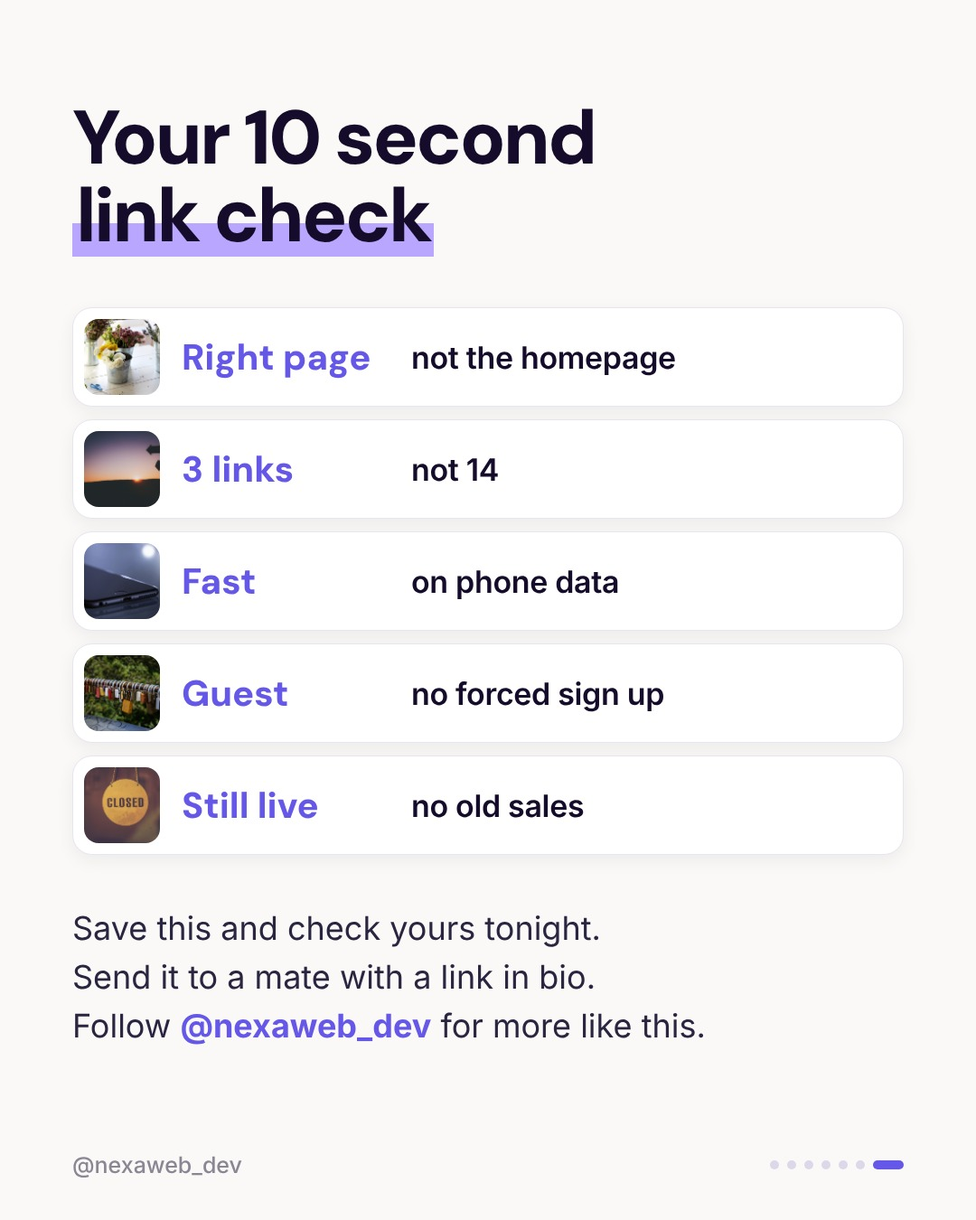
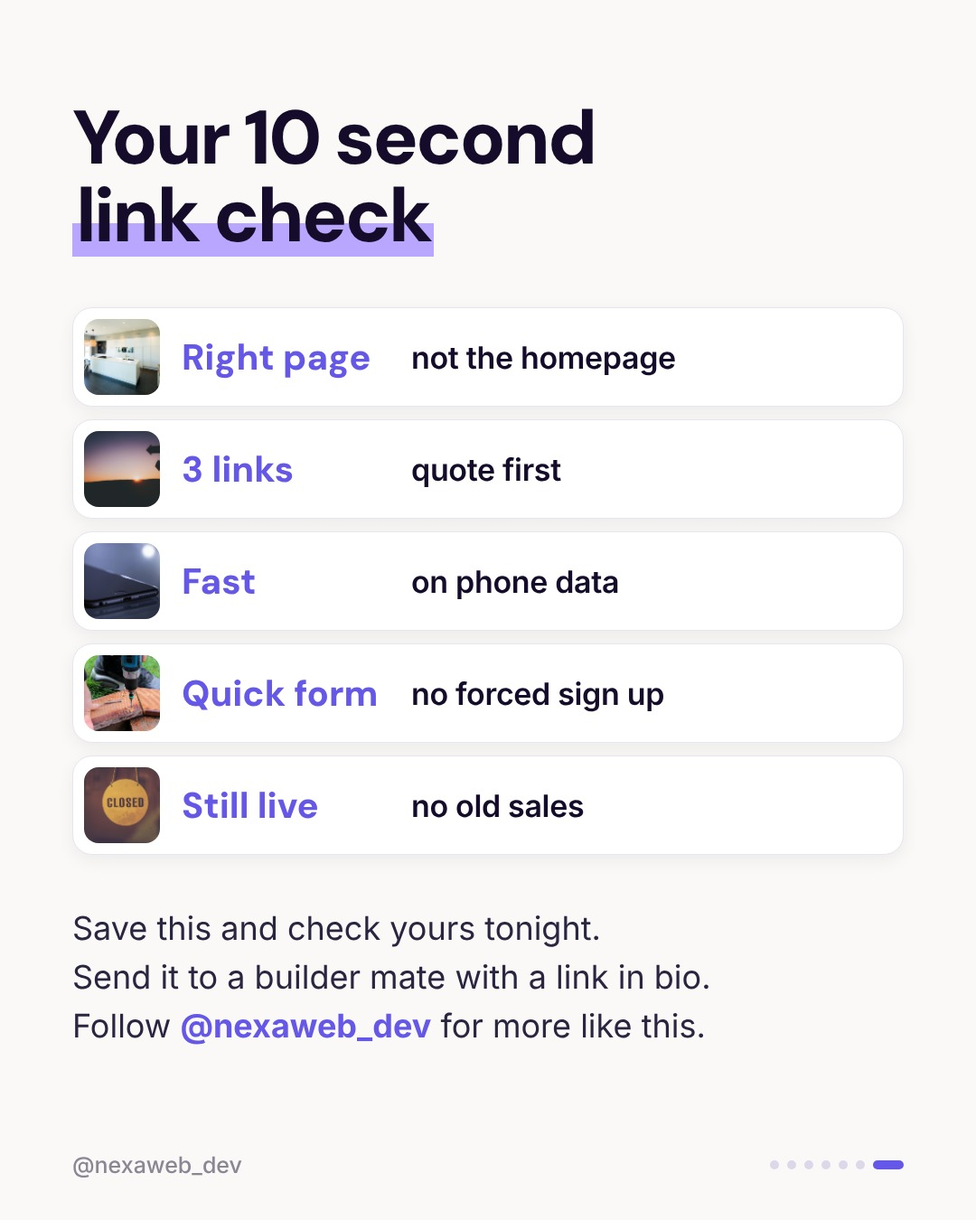
bio-link-fails-5 v3: renovator audience, explain each point
Claude-Session: https://claude.ai/code/session_01MAv6C5Phm9PSsYipzyHZQn

diff --git a/nexa/images/bio-link-fails-5/src/slides.html b/nexa/images/bio-link-fails-5/src/slides.html
@@ -55,46 +55,47 @@ svg.sc{position:absolute;overflow:visible;pointer-events:none;z-index:6}
 <style>
 .s{background:#FAF9F7;color:#150C2B}
 .s:after{display:none}
-.ph{height:500px}
+.ph{height:420px}
 .ph:after{display:none}
-.num{left:80px;top:440px;font:800 40px/1 'DM Sans';letter-spacing:0;color:#fff;-webkit-text-stroke:0;background:#6557E8;padding:16px 26px;border-radius:40px;box-shadow:0 10px 30px rgba(101,87,232,.35)}
-.h{top:540px;color:#150C2B;font-size:72px}
+.num{left:80px;top:362px;font:800 40px/1 'DM Sans';letter-spacing:0;color:#fff;-webkit-text-stroke:0;background:#6557E8;padding:16px 26px;border-radius:40px;box-shadow:0 10px 30px rgba(101,87,232,.35)}
+.h{top:458px;color:#150C2B;font-size:68px}
 .h em{color:#150C2B;background:linear-gradient(180deg,transparent 58%,#B9A6FF 58%,#B9A6FF 92%,transparent 92%);padding:0 4px}
-.sub{top:630px;color:#5b5670}
-.card{top:720px;box-shadow:0 24px 60px rgba(21,12,43,.16),0 0 0 1px #e7e5ee}
-.why{color:#2a2540}
+.sub{top:545px;color:#5b5670;font-size:30px}
+.card{top:640px;box-shadow:0 24px 60px rgba(21,12,43,.16),0 0 0 1px #e7e5ee}
+.why{top:1010px;color:#2a2540;font-size:29px;line-height:1.42}
 .why b{color:#6557E8}
+.fix{position:absolute;left:80px;right:80px;top:1158px;z-index:3;font-size:29px;line-height:1.42;color:#150C2B;font-weight:600}
+.fix b{color:#6557E8}
 .note{color:#6557E8}
 .ft{color:#8a8794}
 .dots span{background:#dcd8ea}.dots span.on{background:#6557E8}
-</style>
-<style>
 .lnk{display:block;margin:0 30px 12px;padding:15px 0;border-radius:14px;border:1.5px solid #e4e2ea;text-align:center;font:600 22px Inter;color:#2b2930;background:#fff}
 .pf{display:flex;align-items:center;gap:16px;padding:22px 30px 18px}
-.pf .lg{width:62px;height:62px;border-radius:50%;background:#3d5a3a;color:#fff;display:flex;align-items:center;justify-content:center;font:700 26px Georgia}
-.inp{margin:0 30px;height:58px;border:1.5px solid #e4e2ea;border-radius:12px;display:flex;align-items:center;padding:0 18px;font-size:23px;color:#a3a0ab}
+.pf .lg{width:62px;height:62px;border-radius:50%;background:#2c3a46;color:#fff;display:flex;align-items:center;justify-content:center;font:800 26px 'DM Sans'}
+.inp{margin:0 30px;height:54px;border:1.5px solid #e4e2ea;border-radius:12px;display:flex;align-items:center;padding:0 18px;font-size:22px;color:#a3a0ab}
 </style>
 <!-- 1 cover -->
 <div class="s" id="s1">
- <div class="ph" style="height:700px"><img src="img/front.jpg" style="object-position:50% 50%"></div>
- <div class="h" style="top:760px;font-size:104px;z-index:6">They tapped your link. <em>Then they left.</em></div>
- <div class="sub" style="top:1010px;font-size:36px;color:#5b5670;z-index:6">5 reasons people bounce from your bio link,<br>and the quick fix for each. Swipe &#8594;</div>
+ <div class="ph" style="height:700px"><img src="img/kitchen1.jpg" style="object-position:50% 50%"></div>
+ <div class="h" style="top:750px;font-size:104px;z-index:6">They tapped your link. <em>Then they left.</em></div>
+ <div class="sub" style="top:1000px;font-size:34px;line-height:1.4;z-index:6">Renovators: your reno post got someone keen. They tapped the link in your bio, then never called. Here's why, and how to fix it. Swipe &#8594;</div>
  <div class="ft" style="z-index:6"><span>@nexaweb_dev</span><span class="dots" data-on="1"></span></div>
 </div>
 
 <!-- 2 homepage -->
 <div class="s" id="s2">
- <div class="ph"><img src="img/buckets.jpg" style="object-position:50% 40%"></div><div class="num">01</div>
+ <div class="ph"><img src="img/kitchen2.jpg" style="object-position:50% 55%"></div><div class="num">01</div>
  <div class="h">It goes to your <em>homepage</em></div>
- <div class="sub">Your post said Christmas wreaths. Your link says "Welcome".</div>
+ <div class="sub">Your post showed a kitchen. Your link opens on "Welcome".</div>
  <div class="card" style="transform:rotate(-1deg)">
-  <div class="bar"><span class="d"></span><span class="url"><b>junipereflowers.com.au</b></span></div>
+  <div class="bar"><span class="d"></span><span class="url"><b>ironbarkreno.com.au</b></span></div>
   <div class="mini" style="border:0;border-radius:0">
-   <div class="nav" style="font-size:24px;color:#2f4a2c;padding:16px 24px">Juniper Lane <i style="font-size:15px;letter-spacing:.04em">SHOP &nbsp; WEDDINGS &nbsp; ABOUT &nbsp; CONTACT</i></div>
-   <div class="hero" style="height:250px;background-image:url(img/shop.jpg)"><span style="font-size:36px;left:24px"><b class="mk" style="font:inherit">Welcome to Juniper Lane</b></span></div>
+   <div class="nav" style="font:800 24px 'DM Sans';color:#2c3a46;padding:16px 24px">IRONBARK <i style="font-size:15px;letter-spacing:.04em">SERVICES &nbsp; ABOUT &nbsp; BLOG &nbsp; CONTACT</i></div>
+   <div class="hero" style="height:200px;background-image:url(img/kitchen3.jpg)"><span style="font:700 34px 'DM Sans';left:24px"><b class="mk" style="font:inherit">Welcome to Ironbark Renovations</b></span></div>
   </div></div>
- <div class="note" style="left:560px;top:1095px;transform:rotate(-3deg)">um, where are the wreaths?</div>
- <div class="why" style="top:1160px"><b>Fix:</b> link straight to the page the post is about. Wreath post, wreath page.</div>
+ <div class="note" style="left:600px;top:968px;transform:rotate(-3deg)">where are the kitchens?</div>
+ <div class="why" style="top:1035px"><b>Why it hurts:</b> they wanted more kitchens and a rough idea of price. Now they have to dig through menus on a small screen. Most won't.</div>
+ <div class="fix" style="top:1175px"><b>Fix:</b> link to your kitchens page, with a quote button.</div>
  <div class="ft"><span>@nexaweb_dev</span><span class="dots" data-on="2"></span></div>
 </div>
 
@@ -102,13 +103,14 @@ svg.sc{position:absolute;overflow:visible;pointer-events:none;z-index:6}
 <div class="s" id="s3">
  <div class="ph"><img src="img/signpost.jpg" style="object-position:50% 50%"></div><div class="num">02</div>
  <div class="h">14 buttons, <em>no clear pick</em></div>
- <div class="sub">Every extra choice is one more reason to close the tab.</div>
- <div class="card" style="top:715px;left:230px;right:230px;transform:rotate(1deg);height:420px">
-  <div class="pf"><span class="lg">J</span><div><div style="font:700 24px Inter">Juniper Lane Flowers</div><div style="font-size:18px;color:#8a8794">Ballarat florist</div></div></div>
-  <span class="lnk">Shop</span><span class="lnk">Weddings</span><span class="lnk">Workshops</span><span class="lnk">Our story</span>
-  <div style="position:absolute;left:0;right:0;bottom:0;height:150px;background:linear-gradient(180deg,rgba(255,255,255,0),#fff 75%)"></div>
-  <div style="position:absolute;left:0;right:0;bottom:16px;text-align:center;font:600 20px Inter;color:#8a8794">+ 10 more</div></div>
- <div class="why" style="top:1165px"><b>Fix:</b> three links, tops. The one you most want tapped goes first.</div>
+ <div class="sub">A link page with everything you've ever done.</div>
+ <div class="card" style="left:240px;right:240px;transform:rotate(1deg);height:330px">
+  <div class="pf"><span class="lg">IR</span><div><div style="font:700 24px Inter">Ironbark Renovations</div><div style="font-size:18px;color:#8a8794">Geelong builders</div></div></div>
+  <span class="lnk">Kitchens</span><span class="lnk">Bathrooms</span><span class="lnk">Extensions</span><span class="lnk">Decks</span>
+  <div style="position:absolute;left:0;right:0;bottom:0;height:120px;background:linear-gradient(180deg,rgba(255,255,255,0),#fff 75%)"></div>
+  <div style="position:absolute;left:0;right:0;bottom:14px;text-align:center;font:600 20px Inter;color:#8a8794">+ 10 more</div></div>
+ <div class="why"><b>Why it hurts:</b> they came for one thing, a quote. Too many choices on a phone means thinking, and thinking means scrolling away.</div>
+ <div class="fix"><b>Fix:</b> three links, tops. "Get a quote" goes first.</div>
  <div class="ft"><span>@nexaweb_dev</span><span class="dots" data-on="3"></span></div>
 </div>
 
@@ -116,29 +118,31 @@ svg.sc{position:absolute;overflow:visible;pointer-events:none;z-index:6}
 <div class="s" id="s4">
  <div class="ph"><img src="img/phone.jpg" style="object-position:50% 50%"></div><div class="num">03</div>
  <div class="h">It's slow on <em>phone data</em></div>
- <div class="sub">You checked it on the shop Wi-Fi. They're on a bus.</div>
+ <div class="sub">You checked it on the office Wi-Fi. They're on the train.</div>
  <div class="card" style="transform:rotate(-1deg)">
-  <div class="bar"><span class="d"></span><span class="url"><b>junipereflowers.com.au/wreaths</b></span></div>
+  <div class="bar"><span class="d"></span><span class="url"><b>ironbarkreno.com.au/our-work</b></span></div>
   <div style="height:5px;background:#efeef3"><div style="width:18%;height:5px;background:#6557E8"></div></div>
-  <div style="height:300px;display:flex;flex-direction:column;align-items:center;justify-content:center;gap:22px">
-   <div style="width:64px;height:64px;border-radius:50%;border:6px solid #ebe9f1;border-top-color:#6557E8;transform:rotate(30deg)"></div>
+  <div style="height:230px;display:flex;flex-direction:column;align-items:center;justify-content:center;gap:20px">
+   <div style="width:60px;height:60px;border-radius:50%;border:6px solid #ebe9f1;border-top-color:#6557E8;transform:rotate(30deg)"></div>
    <div style="font:500 23px Inter;color:#a3a0ab">Loading...</div></div></div>
- <div class="note" style="left:640px;top:1090px;transform:rotate(-3deg)">still loading...</div>
- <div class="why" style="top:1150px"><b>Fix:</b> open your own link with Wi-Fi off. If you're waiting, so are they. Huge photos are a common culprit.</div>
+ <div class="note" style="left:680px;top:945px;transform:rotate(-3deg)">still loading...</div>
+ <div class="why"><b>Why it hurts:</b> project galleries are often huge photos straight off the camera. On mobile data they crawl, and people give up before they see your work.</div>
+ <div class="fix"><b>Fix:</b> open your own link with Wi-Fi off. If it drags, get the photos resized.</div>
  <div class="ft"><span>@nexaweb_dev</span><span class="dots" data-on="4"></span></div>
 </div>
 
 <!-- 5 forced sign up -->
 <div class="s" id="s5">
- <div class="ph"><img src="img/locks.jpg" style="object-position:50% 50%"></div><div class="num">04</div>
+ <div class="ph"><img src="img/drill.jpg" style="object-position:50% 40%"></div><div class="num">04</div>
  <div class="h">They have to <em>sign up</em> first</div>
- <div class="sub">They wanted a wreath. You asked for a password.</div>
- <div class="card" style="transform:rotate(1deg)">
-  <div style="padding:30px 30px 18px;font:700 30px 'DM Sans';color:#1f1d24"><span class="mk">Create an account to continue</span></div>
-  <div class="lbl" style="padding-top:6px">Email</div><div class="inp">you@email.com</div>
+ <div class="sub">They wanted a quote. You asked for a password.</div>
+ <div class="card" style="transform:rotate(1deg) scale(.86);transform-origin:50% 0">
+  <div style="padding:26px 30px 14px;font:700 29px 'DM Sans';color:#1f1d24"><span class="mk">Create an account to request a quote</span></div>
+  <div class="lbl" style="padding-top:4px">Email</div><div class="inp">you@email.com</div>
   <div class="lbl">Password</div><div class="inp">&#8226;&#8226;&#8226;&#8226;&#8226;&#8226;&#8226;&#8226;</div>
-  <div style="padding:22px 30px 28px"><span style="display:block;text-align:center;background:#2f4a2c;color:#fff;font:600 23px Inter;padding:16px;border-radius:12px">Create account</span></div></div>
- <div class="why" style="top:1150px"><b>Fix:</b> let people order or book as a guest. Offer an account after they've paid.</div>
+  <div style="padding:20px 30px 24px"><span style="display:block;text-align:center;background:#2c3a46;color:#fff;font:600 23px Inter;padding:14px;border-radius:12px">Create account</span></div></div>
+ <div class="why" style="top:1045px"><b>Why it hurts:</b> a homeowner just wants a price. Making an account feels like signing up for something before they've even met you.</div>
+ <div class="fix" style="top:1185px"><b>Fix:</b> a short form. Name, phone, suburb, the job. Done.</div>
  <div class="ft"><span>@nexaweb_dev</span><span class="dots" data-on="5"></span></div>
 </div>
 
@@ -146,13 +150,14 @@ svg.sc{position:absolute;overflow:visible;pointer-events:none;z-index:6}
 <div class="s" id="s6">
  <div class="ph"><img src="img/closed.jpg" style="object-position:50% 45%"></div><div class="num">05</div>
  <div class="h">The link is <em>out of date</em></div>
- <div class="sub">Still pointing at last month's sale.</div>
+ <div class="sub">Still pointing at last winter's bathroom special.</div>
  <div class="card" style="transform:rotate(-1deg)">
-  <div class="bar"><span class="d"></span><span class="url"><b>junipereflowers.com.au/spring-sale</b></span></div>
-  <div style="height:300px;display:flex;flex-direction:column;align-items:center;justify-content:center;gap:14px">
-   <div style="font:800 96px 'DM Sans';color:#e4e2ea;letter-spacing:-.04em">404</div>
+  <div class="bar"><span class="d"></span><span class="url"><b>ironbarkreno.com.au/winter-bathroom-special</b></span></div>
+  <div style="height:240px;display:flex;flex-direction:column;align-items:center;justify-content:center;gap:12px">
+   <div style="font:800 92px 'DM Sans';color:#e4e2ea;letter-spacing:-.04em">404</div>
    <div style="font:600 28px Inter;color:#3a3842"><span class="mk">Sorry, this page doesn't exist</span></div></div></div>
- <div class="why" style="top:1130px"><b>Fix:</b> check your bio link every time you post something new. It takes 10 seconds.</div>
+ <div class="why"><b>Why it hurts:</b> a dead page makes people wonder if you're still in business. Not the doubt you want before a big job.</div>
+ <div class="fix"><b>Fix:</b> check your bio link every time you post something new. It takes 10 seconds.</div>
  <div class="ft"><span>@nexaweb_dev</span><span class="dots" data-on="6"></span></div>
 </div>
 
@@ -160,12 +165,12 @@ svg.sc{position:absolute;overflow:visible;pointer-events:none;z-index:6}
 <div class="s" id="s7">
  <div class="h" style="top:110px;font-size:84px">Your 10 second <em style="white-space:nowrap">link check</em></div>
  <div id="list" style="position:absolute;left:80px;right:80px;top:340px;z-index:3;display:flex;flex-direction:column;gap:14px"></div>
- <div style="position:absolute;left:80px;right:80px;top:1000px;font-size:36px;line-height:1.5;color:#2a2540;z-index:3">Save this and check yours tonight.<br>Send it to a mate with a link in bio.<br>Follow <b style="color:#6557E8">@nexaweb_dev</b> for more like this.</div>
+ <div style="position:absolute;left:80px;right:80px;top:1000px;font-size:36px;line-height:1.5;color:#2a2540;z-index:3">Save this and check yours tonight.<br>Send it to a builder mate with a link in bio.<br>Follow <b style="color:#6557E8">@nexaweb_dev</b> for more like this.</div>
  <div class="ft"><span>@nexaweb_dev</span><span class="dots" data-on="7"></span></div>
 </div>
 <script>
 document.querySelectorAll('.dots').forEach(d=>{const on=+d.dataset.on;d.innerHTML=[...Array(7)].map((_,i)=>`<span class="${i+1===on?'on':''}"></span>`).join('')});
-const items=[['Right page','not the homepage','buckets'],['3 links','not 14','signpost'],['Fast','on phone data','phone'],['Guest','no forced sign up','locks'],['Still live','no old sales','closed']];
+const items=[['Right page','not the homepage','kitchen2'],['3 links','quote first','signpost'],['Fast','on phone data','phone'],['Quick form','no forced sign up','drill'],['Still live','no old sales','closed']];
 document.getElementById('list').innerHTML=items.map(([t,l,p])=>`<div style="display:flex;align-items:center;gap:24px;padding:12px 24px 12px 12px;border-radius:22px;background:#fff;border:1px solid #e7e5ee;box-shadow:0 6px 20px rgba(21,12,43,.06)"><img src="img/${p}.jpg" style="width:84px;height:84px;border-radius:16px;object-fit:cover"><span style="font:800 40px 'DM Sans';color:#6557E8;width:230px">${t}</span><span style="font:600 34px Inter;letter-spacing:-.01em;flex:1">${l}</span></div>`).join('');
 let seed=41;const rnd=()=>{seed=(seed*16807)%2147483647;return seed/2147483647};const C='#6557E8';
 function P(p){return p.map((q,i)=>(i?'L':'M')+q[0].toFixed(1)+' '+q[1].toFixed(1)).join(' ')}

diff --git a/nexa/images/bio-link-fails-5/src/body3.html b/nexa/images/bio-link-fails-5/src/body3.html
@@ -1,0 +1,94 @@
+<!-- 1 cover -->
+<div class="s" id="s1">
+ <div class="ph" style="height:700px"><img src="img/kitchen1.jpg" style="object-position:50% 50%"></div>
+ <div class="h" style="top:750px;font-size:104px;z-index:6">They tapped your link. <em>Then they left.</em></div>
+ <div class="sub" style="top:1000px;font-size:34px;line-height:1.4;z-index:6">Renovators: your reno post got someone keen. They tapped the link in your bio, then never called. Here's why, and how to fix it. Swipe &#8594;</div>
+ <div class="ft" style="z-index:6"><span>@nexaweb_dev</span><span class="dots" data-on="1"></span></div>
+</div>
+
+<!-- 2 homepage -->
+<div class="s" id="s2">
+ <div class="ph"><img src="img/kitchen2.jpg" style="object-position:50% 55%"></div><div class="num">01</div>
+ <div class="h">It goes to your <em>homepage</em></div>
+ <div class="sub">Your post showed a kitchen. Your link opens on "Welcome".</div>
+ <div class="card" style="transform:rotate(-1deg)">
+  <div class="bar"><span class="d"></span><span class="url"><b>ironbarkreno.com.au</b></span></div>
+  <div class="mini" style="border:0;border-radius:0">
+   <div class="nav" style="font:800 24px 'DM Sans';color:#2c3a46;padding:16px 24px">IRONBARK <i style="font-size:15px;letter-spacing:.04em">SERVICES &nbsp; ABOUT &nbsp; BLOG &nbsp; CONTACT</i></div>
+   <div class="hero" style="height:200px;background-image:url(img/kitchen3.jpg)"><span style="font:700 34px 'DM Sans';left:24px"><b class="mk" style="font:inherit">Welcome to Ironbark Renovations</b></span></div>
+  </div></div>
+ <div class="note" style="left:600px;top:968px;transform:rotate(-3deg)">where are the kitchens?</div>
+ <div class="why" style="top:1035px"><b>Why it hurts:</b> they wanted more kitchens and a rough idea of price. Now they have to dig through menus on a small screen. Most won't.</div>
+ <div class="fix" style="top:1175px"><b>Fix:</b> link to your kitchens page, with a quote button.</div>
+ <div class="ft"><span>@nexaweb_dev</span><span class="dots" data-on="2"></span></div>
+</div>
+
+<!-- 3 too many links -->
+<div class="s" id="s3">
+ <div class="ph"><img src="img/signpost.jpg" style="object-position:50% 50%"></div><div class="num">02</div>
+ <div class="h">14 buttons, <em>no clear pick</em></div>
+ <div class="sub">A link page with everything you've ever done.</div>
+ <div class="card" style="left:240px;right:240px;transform:rotate(1deg);height:330px">
+  <div class="pf"><span class="lg">IR</span><div><div style="font:700 24px Inter">Ironbark Renovations</div><div style="font-size:18px;color:#8a8794">Geelong builders</div></div></div>
+  <span class="lnk">Kitchens</span><span class="lnk">Bathrooms</span><span class="lnk">Extensions</span><span class="lnk">Decks</span>
+  <div style="position:absolute;left:0;right:0;bottom:0;height:120px;background:linear-gradient(180deg,rgba(255,255,255,0),#fff 75%)"></div>
+  <div style="position:absolute;left:0;right:0;bottom:14px;text-align:center;font:600 20px Inter;color:#8a8794">+ 10 more</div></div>
+ <div class="why"><b>Why it hurts:</b> they came for one thing, a quote. Too many choices on a phone means thinking, and thinking means scrolling away.</div>
+ <div class="fix"><b>Fix:</b> three links, tops. "Get a quote" goes first.</div>
+ <div class="ft"><span>@nexaweb_dev</span><span class="dots" data-on="3"></span></div>
+</div>
+
+<!-- 4 slow -->
+<div class="s" id="s4">
+ <div class="ph"><img src="img/phone.jpg" style="object-position:50% 50%"></div><div class="num">03</div>
+ <div class="h">It's slow on <em>phone data</em></div>
+ <div class="sub">You checked it on the office Wi-Fi. They're on the train.</div>
+ <div class="card" style="transform:rotate(-1deg)">
+  <div class="bar"><span class="d"></span><span class="url"><b>ironbarkreno.com.au/our-work</b></span></div>
+  <div style="height:5px;background:#efeef3"><div style="width:18%;height:5px;background:#6557E8"></div></div>
+  <div style="height:230px;display:flex;flex-direction:column;align-items:center;justify-content:center;gap:20px">
+   <div style="width:60px;height:60px;border-radius:50%;border:6px solid #ebe9f1;border-top-color:#6557E8;transform:rotate(30deg)"></div>
+   <div style="font:500 23px Inter;color:#a3a0ab">Loading...</div></div></div>
+ <div class="note" style="left:680px;top:945px;transform:rotate(-3deg)">still loading...</div>
+ <div class="why"><b>Why it hurts:</b> project galleries are often huge photos straight off the camera. On mobile data they crawl, and people give up before they see your work.</div>
+ <div class="fix"><b>Fix:</b> open your own link with Wi-Fi off. If it drags, get the photos resized.</div>
+ <div class="ft"><span>@nexaweb_dev</span><span class="dots" data-on="4"></span></div>
+</div>
+
+<!-- 5 forced sign up -->
+<div class="s" id="s5">
+ <div class="ph"><img src="img/drill.jpg" style="object-position:50% 40%"></div><div class="num">04</div>
+ <div class="h">They have to <em>sign up</em> first</div>
+ <div class="sub">They wanted a quote. You asked for a password.</div>
+ <div class="card" style="transform:rotate(1deg) scale(.86);transform-origin:50% 0">
+  <div style="padding:26px 30px 14px;font:700 29px 'DM Sans';color:#1f1d24"><span class="mk">Create an account to request a quote</span></div>
+  <div class="lbl" style="padding-top:4px">Email</div><div class="inp">you@email.com</div>
+  <div class="lbl">Password</div><div class="inp">&#8226;&#8226;&#8226;&#8226;&#8226;&#8226;&#8226;&#8226;</div>
+  <div style="padding:20px 30px 24px"><span style="display:block;text-align:center;background:#2c3a46;color:#fff;font:600 23px Inter;padding:14px;border-radius:12px">Create account</span></div></div>
+ <div class="why" style="top:1045px"><b>Why it hurts:</b> a homeowner just wants a price. Making an account feels like signing up for something before they've even met you.</div>
+ <div class="fix" style="top:1185px"><b>Fix:</b> a short form. Name, phone, suburb, the job. Done.</div>
+ <div class="ft"><span>@nexaweb_dev</span><span class="dots" data-on="5"></span></div>
+</div>
+
+<!-- 6 out of date -->
+<div class="s" id="s6">
+ <div class="ph"><img src="img/closed.jpg" style="object-position:50% 45%"></div><div class="num">05</div>
+ <div class="h">The link is <em>out of date</em></div>
+ <div class="sub">Still pointing at last winter's bathroom special.</div>
+ <div class="card" style="transform:rotate(-1deg)">
+  <div class="bar"><span class="d"></span><span class="url"><b>ironbarkreno.com.au/winter-bathroom-special</b></span></div>
+  <div style="height:240px;display:flex;flex-direction:column;align-items:center;justify-content:center;gap:12px">
+   <div style="font:800 92px 'DM Sans';color:#e4e2ea;letter-spacing:-.04em">404</div>
+   <div style="font:600 28px Inter;color:#3a3842"><span class="mk">Sorry, this page doesn't exist</span></div></div></div>
+ <div class="why"><b>Why it hurts:</b> a dead page makes people wonder if you're still in business. Not the doubt you want before a big job.</div>
+ <div class="fix"><b>Fix:</b> check your bio link every time you post something new. It takes 10 seconds.</div>
+ <div class="ft"><span>@nexaweb_dev</span><span class="dots" data-on="6"></span></div>
+</div>
+
+<!-- 7 cta -->
+<div class="s" id="s7">
+ <div class="h" style="top:110px;font-size:84px">Your 10 second <em style="white-space:nowrap">link check</em></div>
+ <div id="list" style="position:absolute;left:80px;right:80px;top:340px;z-index:3;display:flex;flex-direction:column;gap:14px"></div>
+ <div style="position:absolute;left:80px;right:80px;top:1000px;font-size:36px;line-height:1.5;color:#2a2540;z-index:3">Save this and check yours tonight.<br>Send it to a builder mate with a link in bio.<br>Follow <b style="color:#6557E8">@nexaweb_dev</b> for more like this.</div>
+ <div class="ft"><span>@nexaweb_dev</span><span class="dots" data-on="7"></span></div>
+</div>

diff --git a/nexa/images/bio-link-fails-5/src/light3.css b/nexa/images/bio-link-fails-5/src/light3.css
@@ -1,0 +1,22 @@
+<style>
+.s{background:#FAF9F7;color:#150C2B}
+.s:after{display:none}
+.ph{height:420px}
+.ph:after{display:none}
+.num{left:80px;top:362px;font:800 40px/1 'DM Sans';letter-spacing:0;color:#fff;-webkit-text-stroke:0;background:#6557E8;padding:16px 26px;border-radius:40px;box-shadow:0 10px 30px rgba(101,87,232,.35)}
+.h{top:458px;color:#150C2B;font-size:68px}
+.h em{color:#150C2B;background:linear-gradient(180deg,transparent 58%,#B9A6FF 58%,#B9A6FF 92%,transparent 92%);padding:0 4px}
+.sub{top:545px;color:#5b5670;font-size:30px}
+.card{top:640px;box-shadow:0 24px 60px rgba(21,12,43,.16),0 0 0 1px #e7e5ee}
+.why{top:1010px;color:#2a2540;font-size:29px;line-height:1.42}
+.why b{color:#6557E8}
+.fix{position:absolute;left:80px;right:80px;top:1158px;z-index:3;font-size:29px;line-height:1.42;color:#150C2B;font-weight:600}
+.fix b{color:#6557E8}
+.note{color:#6557E8}
+.ft{color:#8a8794}
+.dots span{background:#dcd8ea}.dots span.on{background:#6557E8}
+.lnk{display:block;margin:0 30px 12px;padding:15px 0;border-radius:14px;border:1.5px solid #e4e2ea;text-align:center;font:600 22px Inter;color:#2b2930;background:#fff}
+.pf{display:flex;align-items:center;gap:16px;padding:22px 30px 18px}
+.pf .lg{width:62px;height:62px;border-radius:50%;background:#2c3a46;color:#fff;display:flex;align-items:center;justify-content:center;font:800 26px 'DM Sans'}
+.inp{margin:0 30px;height:54px;border:1.5px solid #e4e2ea;border-radius:12px;display:flex;align-items:center;padding:0 18px;font-size:22px;color:#a3a0ab}
+</style>

diff --git a/nexa/images/bio-link-fails-5/src/img/CREDITS.md b/nexa/images/bio-link-fails-5/src/img/CREDITS.md
@@ -1,9 +1,12 @@
 All photos CC0 / public domain via Openverse (source: rawpixel; no attribution required, credited anyway):
-- front.jpg: "Free flower shop image" (rawpixel 5906663), CC0, openverse id ed67923c
-- buckets.jpg: "Free flower shop image" (rawpixel 5925253), CC0, openverse id 4a22084f
+- kitchen1.jpg: "Free kitchen interior design image" (rawpixel 5924444), CC0, openverse id 695299c4
+- kitchen2.jpg: "Modern white kitchen interior" (rawpixel 6042749), CC0, openverse id 6a250f15
+- kitchen3.jpg: "Free kitchen interior design image" (rawpixel 5919921), CC0, openverse id bbb04a49
+- frame.jpg: "House framing" (rawpixel 4029910), CC0, openverse id b214272d
+- drill.jpg: "Carpenter drilling, close up" (rawpixel 6030182), CC0, openverse id c22d210d
 - signpost.jpg: "Silhouette arrow signpost pointing left" (rawpixel 3295485), CC0, openverse id 09441ae4
 - phone.jpg: "Free mobile phone image" (rawpixel 5912581), CC0, openverse id 9e365c4a
-- locks.jpg: "Stainless steel padlock, love lock" (rawpixel 6027857), CC0, openverse id bf76a85c
+- locks.jpg: "Stainless steel padlock, love lock" (rawpixel 6027857), CC0, openverse id bf76a85c (v1/v2 only, removed)
 - closed.jpg: "Shop sign closed message" (rawpixel), CC0, openverse id f5f55097
-- shop.jpg: "flower shop display section variety" (rawpixel 5974957), CC0, openverse id d0c45728
-Business "Juniper Lane Flowers" (Ballarat), its domain, products and prices are made up.
+Business "Ironbark Renovations" (Geelong), its domain, services and offers are made up.
+(v1/v2 used a made-up florist, Juniper Lane Flowers.)

diff --git a/nexa/NOTES.md b/nexa/NOTES.md
@@ -38,3 +38,4 @@
   Never write the API key into the repo.
 - 2026-11-24 (Jayden): reels all looked the same (dark purple glass); asked for variety. Rejected a retro 1994 desktop style (teal, beveled windows, pixel font): wants a professional modern look. Light modern reel style approved for review: nexa/videos/internet-stories-ep8-banner/src/scene_modern.html.
 - 2026-11-25 (Jayden): feed is all the purple/navy carousels, looks too similar. Vary the colour/look between posts. Light variant made for bio-link-fails-5 (src/slides.html: warm white #FAF9F7, crisp photo top 500 px, indigo number pill, navy headline with lavender highlighter underline); navy original kept as src/slides_v1_navy.html.
+- 2026-11-25 (Jayden): tip carousels must EXPLAIN each point (why it hurts the business, in plain words), not just name it and give a fix. Used 'Why it hurts:' + 'Fix:' per slide. He asked to target renovators (reno/builder audience) instead of a florist for bio-link-fails-5.
